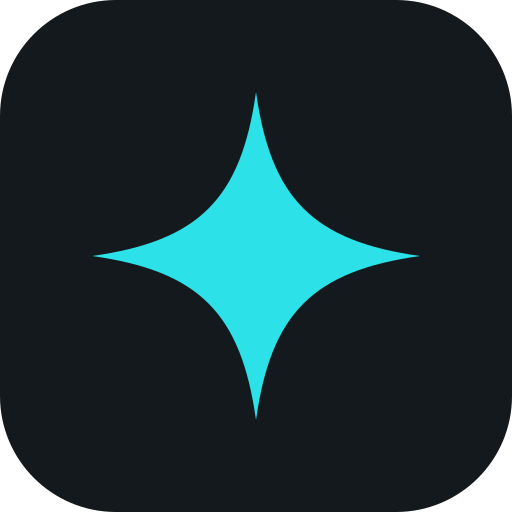
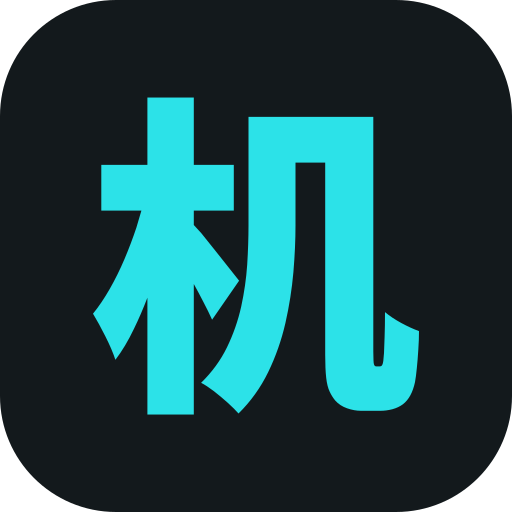
feat(brand): add robotics text assets and operator drafts

Changed region(s): [[0.1875, 0.1875, 0.8438, 0.8125]]

diff --git a/industry/brand/generate.ts b/industry/brand/generate.ts
@@ -1,0 +1,48 @@
+// Development text mark: one “机” glyph, with PNG and ICO exports from the same SVG.
+// Uses existing opentype.js / sharp dependencies; no font package is needed at runtime.
+// Usage: node industry/brand/generate.ts <@fontsource/noto-sans-sc package directory>
+import { readFileSync, writeFileSync } from "node:fs";
+import path from "node:path";
+import opentype from "opentype.js";
+import sharp from "sharp";
+
+const pkg = process.argv[2];
+if (!pkg) throw new Error("usage: node industry/brand/generate.ts <noto-sans-sc package directory>");
+const character = "机";
+const cp = character.codePointAt(0)!;
+const css = readFileSync(path.join(pkg, "900.css"), "utf8");
+const faces = [...css.matchAll(/url\(\.\/files\/([\w-]+)\.woff2\)[^;]*;\s*unicode-range: ([^;]+);/g)];
+const face = faces.find((m) => m[2]!.split(",").some((range) => {
+  const [a, b] = range.trim().replace("U+", "").split("-").map((value) => parseInt(value, 16));
+  return cp >= a! && cp <= (b ?? a!);
+}));
+if (!face) throw new Error(`font package has no glyph for ${character}`);
+const buffer = readFileSync(path.join(pkg, "files", `${face[1]}.woff`));
+const font = opentype.parse(buffer.buffer.slice(buffer.byteOffset, buffer.byteOffset + buffer.byteLength));
+const box = font.getPath(character, 0, 0, 1000).getBoundingBox();
+const scale = Math.min(326 / (box.x2 - box.x1), 326 / (box.y2 - box.y1));
+const glyph = font.getPath(character, 256 - (box.x1 + box.x2) * scale / 2, 256 - (box.y1 + box.y2) * scale / 2, 1000 * scale).toPathData(1);
+const svg = `<!-- Development text mark. Noto Sans SC Black (SIL OFL 1.1). -->\n<svg xmlns="http://www.w3.org/2000/svg" viewBox="0 0 512 512"><title>机器人热点</title><rect width="512" height="512" rx="116" fill="#13191c"/><path d="${glyph}" fill="#2ce2e8"/></svg>\n`;
+const out = "industry/brand";
+writeFileSync(`${out}/logo.svg`, svg);
+for (const [name, size] of [["icon.png", 512], ["icon-192.png", 192], ["apple-icon.png", 180]] as const) {
+  writeFileSync(`${out}/${name}`, await sharp(Buffer.from(svg)).resize(size, size).png().toBuffer());
+}
+const sizes = [16, 32, 48];
+const images = await Promise.all(sizes.map((size) => sharp(Buffer.from(svg)).resize(size, size).png().toBuffer()));
+const header = Buffer.alloc(6 + sizes.length * 16);
+header.writeUInt16LE(1, 2);
+header.writeUInt16LE(sizes.length, 4);
+let offset = header.length;
+sizes.forEach((size, index) => {
+  const at = 6 + index * 16;
+  header[at] = size;
+  header[at + 1] = size;
+  header.writeUInt16LE(1, at + 4);
+  header.writeUInt16LE(32, at + 6);
+  header.writeUInt32LE(images[index]!.length, at + 8);
+  header.writeUInt32LE(offset, at + 12);
+  offset += images[index]!.length;
+});
+writeFileSync(`${out}/favicon.ico`, Buffer.concat([header, ...images]));
+console.log("Generated development text mark and icons in industry/brand");

diff --git a/industry/README.md b/industry/README.md
@@ -1,17 +1,30 @@
-# 行业包
+# 机器人行业配置
 
-这个站和“行业”有关的一切都在这里。换一个行业，主要就是改这个文件夹，步骤见 [把它改成你的行业](../docs/customize.md)。
+“机器人热点”是开发占位名，面向机器人创业者、研发负责人和工程师。复用 AIHOT 的采集、worker、数据库、发布层与前端，不改变内部包名或必要署名。正式名称、文字品牌、域名与运营主体待确认，网站地址由 `SITE_URL` 配置。
 
-| 文件 | 内容 |
+| 文件 | 用途 |
 |---|---|
-| `site.ts` | 站名、行业词、首页文案、关于页、备案号 |
-| `taxonomy.ts` | 分类、标签、公司与机构、防止模型写错公司的词表 |
-| `topics.json` | 主题目录（`/topics`） |
-| `sources.json` | 首次启动时导入的示范信源 |
-| `prompts/` | 每一步的提示词：预筛、评分、写作、结构化、归组、综述、日报、翻译 |
-| `selection.ts` | 入选门槛 |
-| `features.ts` | 模型榜、Codex 重置监控的开关 |
-| `brand/` | 图标、Logo、日报周报月报的报头字 |
-| `pages/` | 使用规则、隐私说明（模板，上线前按实际情况改写） |
-| `changelog.json` | 更新日志 |
-| `gold.example.jsonl` | 精选评测样本的格式示例 |
+| `site.ts` | 对外名称、中文文案、抓取身份和稳定 MCP 前缀 `bothot` |
+| `taxonomy.ts` | 三个主分类、内容形态标签、技术/产品主题、实体和身份安全词典 |
+| `topics.json` | 主题目录；按实体或标签归入，不与主分类混装 |
+| `sources.json` | 可导入信源配置，实际验证见 [来源说明](../docs/sources-robotics.md) |
+| `prompts/` | 预筛、评分、证据写作、结构化、归组和简报规则 |
+| `selection.ts` | 60 / 65 / 76 与 understandFloor=50：沿用上游，机器人领域未校准 |
+| `features.ts` | 模型排行榜与 Codex 重置监控均关闭 |
+| `brand/` | “机”字开发文字标识、图标与机器人日报/周报/月报报头 |
+| `pages/` | 对应真实处理行为的条款和隐私草稿，尚待运营者确认 |
+| `gold.example.jsonl` | Agent 编写的合成格式示例，非真实新闻、非人工金标准 |
+
+三个稳定分类 key 是 `hardware`（硬件与系统工程）、`research`（研究与开源）、`industry`（产品与商业化，沿用上游日报 fallback）。七个 `ITEM_TYPES` 及五轴类型权重原样保留。类别标签描述内容形态，技术与产品主题标签独立维护，公司使用 `entityId`，公开分类 key、主题 slug 和工具前缀上线后保持稳定。身份安全检查保留上游词典并补机器人实体，不能因换行业移除防止模型补写公司的检查。
+
+普通大模型、编程工具、消费电子与汽车消息，只有原始材料明确给出具体机器人关联才放行；材料不足保留 UNKNOWN 等待补充。精选要求具体信息价值，不以名校、大厂、SOTA、融资额或炫技替代证据。讨论少的工具、硬件、独立复现或反证仍有入选路径。热度来自事件级传播信号，模型评分只用于编辑筛选，两次评分不代表独立来源核验。
+
+`rules-evidence.md` 共享于写作流程：区分仿真/真机/遥操作、演示/连续运行、来源陈述/独立证据、代码/权重/数据/硬件与许可证、订单/出货/交付/收入/活跃用户；抓取日期不能替代原始发布时间。先讲本次新增事实，后讲价值与必要限制，不为每条制造工程建议。日报通常重点讲 2–3 条、最多 5 条，信息不足允许 0–2 条或空刊。
+
+启动、验证与已知限制见 [机器人站操作说明](../docs/robotics.md)，运行与模型配置也可查 [部署](../docs/deploy.md)，实际来源、验证结果与启用方式见 [来源说明](../docs/sources-robotics.md)。增删信源使用后台或 `sources.json`，保持原文摘要展示权限，不因写入配置而覆盖管理员的设置。X 与公众号是需要授权和服务密钥的可选扩展。不要把 HTTP 200、合成回归或 mock 演示当作真实采集与编辑质量证据。
+
+校准使用 [精选与校准](../docs/selection.md) 的 SelectBench 和 `scripts/eval-selection.ts`。真实候选样本应有原始出处、标注者与待确认状态，用户复核后再作为人工标签；相同事件与近重复不能跨开发集和留出集。`gold.example.jsonl` 只说明输入格式，不能用于宣称准确率、召回率或成本。模型调用与预算授权齐备后，先按有效标注运行评测，再决定是否调整数值门槛。
+
+开发文字品牌没有永久字体依赖。重新生成时，在临时目录下载并解包 `@fontsource/noto-sans-sc@5.3.0`，运行 `node scripts/nameplates.ts <字体包目录>` 与 `node industry/brand/generate.ts <字体包目录>`。SVG 路径与 PNG/ICO 由同一 Noto Sans SC Black 字形生成，字体许可保存在 `brand/FONT-LICENSE.txt`。它是可替换的文字占位标识，不是正式商标或 Logo。
+
+正式上线前至少确认：站名和域名、运营主体与联系方式、来源和素材权限、模型提供商/地区、预算、日志与反馈保存期限、可选飞书转发和管理员登录方式。隐私草稿已披露本地收藏、服务端反馈/截图、可选转发、管理员会话与模型处理，不能未经确认就称为已生效政策。

diff --git a/industry/pages/privacy.md b/industry/pages/privacy.md
@@ -1,34 +1,38 @@
-# 隐私说明
+# 隐私说明（运营草稿）
 
-这是开源框架自带的模板，只写了这套软件默认会处理哪些数据。上线前请按你的实际情况改写（运营主体、联系方式、你另外接入的统计或服务），必要时请专业人士审阅。
+以下说明依据当前代码的数据处理行为编写。正式上线前，运营者需补充主体、联系地址、服务器与模型服务所在地区、保存期限，以及实际启用的第三方服务。未配置的可选服务不代表已在使用。
 
 | 项 | 值 |
 |---|---|
-| 版本 | 0.1（模板） |
-| 生效日期 | 请填写 |
-| 运营主体 | 请填写 |
-| 隐私事务联系 | 请填写 |
+| 版本 | 0.1（开发草稿） |
+| 生效日期 | 待运营者确认 |
+| 运营主体 | 待确认 |
+| 隐私事务联系 | 暂通过站内反馈页，正式联系方式待确认 |
 
-页首说明：
-
-> 使用本站不需要注册或登录。我们只处理让网站正常运行、处理反馈所必需的信息，不出售个人信息。
+> 公开阅读无需账号。收藏、已读和主题外观保存在当前浏览器；主动提交的反馈会发送到服务器。管理员登录另有会话 Cookie。
 
 ## 1. 浏览器本地数据
 
-收藏、已读记录、主题偏好和反馈草稿只保存在你当前的浏览器里，不会发送到服务器。清除浏览器数据后它们会消失；换设备不会同步。你可以在“收藏”页导出和导入这些数据。
+收藏、已读记录、深浅主题偏好、更新日志已读状态和未提交的反馈草稿存放在当前浏览器本地存储，不作为阅读偏好上传到服务器。清除浏览器数据后它们会消失，设备之间不会自动同步；收藏页提供手动导出与导入。浏览器访问页面仍会向服务器发出通常的网络请求。
 
-## 2. 反馈
+## 2. 主动提交反馈
 
-你在反馈页提交的内容、选填的邮箱、提交时所在页面的地址，以及你选择附上的截图，会保存在服务器上，用于处理你的反馈。为防止滥用，服务器会保存一个由网络地址和浏览器类别计算出的、无法还原的标识，用于限流和封禁滥用来源。
+反馈内容、选填邮箱、所附页面地址和选填截图会发送至服务器，供运营者处理。为限流与封禁滥用，系统根据网络地址和浏览器类别生成带密钥的来源标识；它不是原始 IP，但也不作为完全匿名保证。请勿在反馈或截图中包含密钥、账号凭证和无关个人资料。
 
-## 3. 服务器与网络日志
+截图先存储在服务器的数据目录，数据库记录其标识。若运营者启用内部飞书通知并配置相应凭证，反馈和截图会转发至所配置的内部群，截图上传成功后本地副本按代码流程清理；未启用或转发失败时本地副本可能继续保存。反馈可由管理员通过后台删除资料，但当前没有自动到期删除政策，正式保存期限与备份删除安排须由运营者确认。
 
-本软件默认不做访客统计。你的服务器、反向代理或 CDN 可能会按它们自己的配置记录访问日志（如 IP 地址、访问时间、页面地址、浏览器信息）。请在这里写明你实际使用的服务和保存期限。
+## 3. 管理员认证与审计
 
-## 4. 第三方内容
+公开内容不要求登录。后台管理员采用密码登录，或在运营者配置后使用飞书 OAuth 与管理员白名单。系统使用 HttpOnly 会话 Cookie（有效期最长 30 天），存储会话、登录浏览器信息和管理员操作审计；飞书登录分支还会处理允许登录的管理员身份、邮箱和显示名称。管理员退出登录会删除对应服务端会话。第三方登录的实际启用、身份数据保存和审计期限由运营者确认。
 
-本站展示的是第三方原文的摘要与链接。点击原文链接后，你访问的是对方网站，适用对方的隐私政策。
+## 4. 来源采集与模型处理
 
-## 5. 联系我们
+系统存储公开来源的标题、署名、原始链接、日期及用于筛选和摘要的文本，公开展示遵循信源权限。worker 在允许模型调用并配置提供商后，将相应来源材料发送至选定模型服务生成摘要、评分和归组；页面访问本身不触发模型调用。模型提供商、服务地区和数据政策依实际配置确认，不在本草稿中假定某家服务或保留期限。
 
-请写明联系方式，以及查询、更正或删除反馈资料的方式。
+## 5. 服务器日志与第三方网站
+
+当前软件未集成访客统计服务。API、反向代理、主机或 CDN 可能依自身配置记录请求、错误、IP、页面地址与浏览器信息；生产运营者需说明实际服务和日志期限。点击原文链接后访问对应第三方网站，适用其隐私政策。可选 X、公众号或通知服务只有取得授权并配置后才会启用。
+
+## 6. 查询、更正与删除
+
+可通过[反馈页](/feedback)提出反馈资料的查询、更正或删除需求。正式联系渠道、身份确认方法、响应期限以及数据库备份中的处理方式，需在上线前由运营者补齐。

diff --git a/industry/pages/terms.md b/industry/pages/terms.md
@@ -1,34 +1,32 @@
-# 使用规则
+# 使用规则（运营草稿）
 
-这是开源框架自带的模板。上线前请按你的实际情况改写（运营主体、允许和不允许的用途、联系方式），必要时请专业人士审阅。
+以下文字对应当前软件与开发配置，尚未作为正式运营条款生效。正式上线前，运营者需要确认站名、运营主体、联系方式、数据使用许可和争议处理方式。本站与任何被报道机构没有因此建立合作或背书关系。
 
 | 项 | 值 |
 |---|---|
-| 版本 | 0.1（模板） |
-| 生效日期 | 请填写 |
-| 运营主体 | 请填写 |
-| 联系方式 | 请填写 |
+| 版本 | 0.1（开发草稿） |
+| 生效日期 | 待运营者确认 |
+| 运营主体 | 待确认 |
+| 联系方式 | 暂通过站内反馈页，正式联系方式待确认 |
 
-页首说明：
+> 机器人热点聚合公开来源，使用模型自动筛选并生成中文摘要。公开网站、RSS、API 与 MCP 无需注册。摘要是阅读索引，重要判断请查看原文及其条件。
 
-> 本站聚合公开信源，用模型生成中文摘要与精选，原文版权归各来源所有。网站、RSS、公开 API 与 MCP 均可匿名使用。
+## 1. 内容与证据
 
-## 1. 内容与版权
+标题、摘要、推荐理由与简报可能由模型生成，可能出现遗漏或错误；自动筛选不等于人工审核、独立事实验证或新闻真实性概率。两次模型评分用于编辑筛选，并不代表两个独立信源。厂商陈述、仿真、真机、演示与独立复现需按材料分别理解。产品性能、采购与商业判断应核对原始材料。
 
-本站展示的标题、摘要和推荐理由由模型根据公开来源生成，可能有误，重要信息请以原文为准。原文版权归各来源所有；站内只在来源允许时展示全文，其余只展示摘要和原文链接。
+## 2. 版权与来源
 
-## 2. 来源方的更正与下架
+原文和第三方素材版权归对应权利人。当前信源默认只公开摘要和原文链接，全文展示默认关闭；只有明确获得允许后才可按对应来源权限开放。本站不授予原文、图片、数据集、模型权重或代码的再使用权，具体许可应到来源查看。框架开源许可不等于聚合内容的许可。
 
-如果你是来源方，希望更正、下架或调整展示方式，请通过反馈页联系我们，我们会尽快处理。
+## 3. 更正、撤回与反馈
 
-## 3. 使用本站的数据
+读者和来源方可通过[反馈页](/feedback)指出错误、权利问题或撤回需求，请附站内条目与原文地址，并说明需要处理的事实。运营者可通过后台更正或撤回；公开网页、RSS、API 和 MCP 统一遵循发布状态。正式联系地址与处理时限由运营者在上线前补充，不在本草稿中承诺固定时限。
 
-请写明你允许的用途（例如个人阅读、组织内部使用），以及需要事先取得你同意的用途（例如商业产品、公开转载、批量再分发）。
+## 4. 公开接口与数据使用
 
-## 4. 接口与频率
+RSS、公开 API 和 MCP 提供匿名只读访问。请遵守响应中的缓存、限流和 Retry-After，不绕过权限、访问控制或撤回状态，不并发反复重试。个人阅读和内部研究也需遵守来源自身的许可；批量再分发、公开转载与商业再使用范围，须由运营者正式确认，不能由本草稿推定授权。
 
-RSS、公开 API 和 MCP 为匿名只读接口。请按响应中的缓存时间轮询，遇到 429 请遵守 Retry-After，不要并发重试。
+## 5. 服务范围
 
-## 5. 免责
-
-本站按“现状”提供，不保证内容完整、准确和持续可用。
+本站目前为开发版本，不保证覆盖完整、内容准确或持续可用。日报按配置刊期生成，信息不足时允许少量或空刊，不承诺每天固定条数。本草稿不替代正式运营条款。
